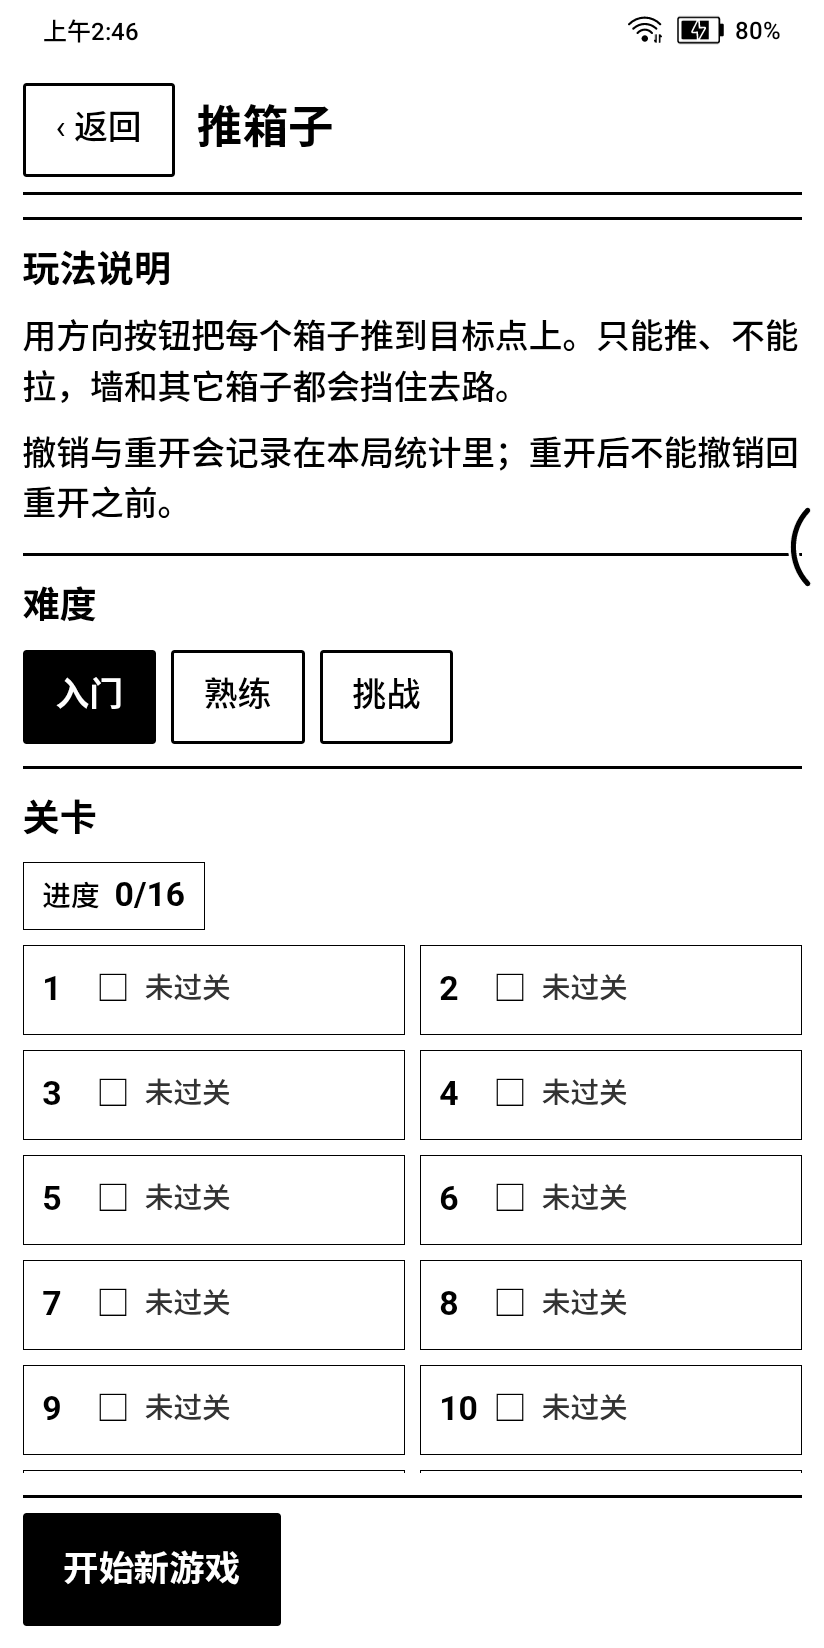
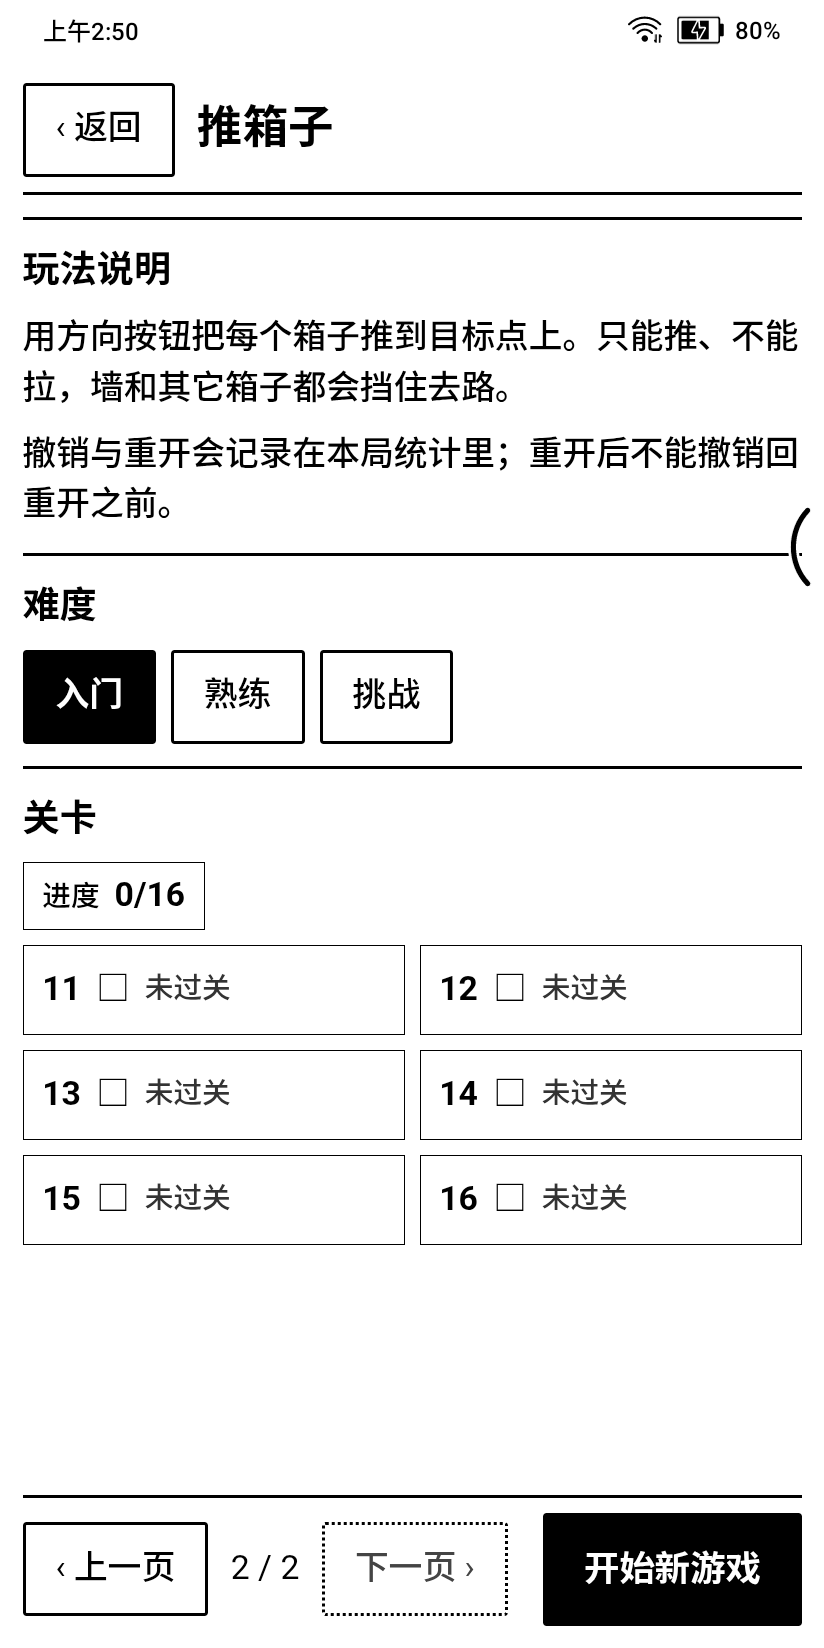
feat(ui): 关卡列表按实测容量决定是否分页；翻页按钮固定在页脚无需滚动
用户要求
1. 判断关卡能否显示全，能显示全就不用分页；
2. 且翻页按钮必须不用滑动就能看见。

改动
- 去掉写死的 LEVELS_PER_PAGE=12，改为按可用空间实测容量：
  useLayoutEffect 中测量首项高度、rowGap、gridTemplateColumns 列数，
  以「内容区底边 − 列表顶边」为可见高度，算出可放行数×列数。
  关卡数 ≤ 容量 → 全列出、不渲染分页器；否则每页=容量。
- 分页器从滚动内容区移到**固定页脚**（与主操作同一栏，宽屏同行、窄屏换行），
  因此永远不需要滚动即可看见。
- 分页器出现会让内容区变矮，content.bottom 自动上移；以 pagerNeeded 为依赖触发一次重算即收敛。
- 容量随视口/字号/粗线设置变化重算；页码越界时夹紧，避免从第 2 页切回单页后停在空页。

实测（推箱子 16 关）
- Note X2（1248×903）：本页显示 16、无分页器 ✓（末项 bottom 581 ≤ 内容区 809）
- P6Plus（439×847）：本页显示 10、有分页器；翻页按钮 bottom 830 ≤ 847，
  **无需滚动即可见** ✓；翻到第 2 页显示 11~16、页码 2/2、末项仍在内容区内 ✓

文档：docs/eink-guidelines.md 记录规则与实测数据（列数由宽度、行数由高度决定）；
截图 docs/screens/device-12-p6-detail.png、device-13-x2-detail.png

测试：169 个 TypeScript 测试 + i18n 检查全绿

diff --git a/packages/ui/src/screens/GameDetailScreen.tsx b/packages/ui/src/screens/GameDetailScreen.tsx
@@ -2,7 +2,7 @@
  * 游戏详情：玩法说明、难度、当前进度、关卡列表、开始/继续。
  * 「已有存档时开新局」必须明确询问，绝不静默丢局。
  */
-import { useState, type ReactNode } from 'react'
+import { useLayoutEffect, useRef, useState, type ReactNode } from 'react'
 import type { SaveEnvelope } from '@eink/core'
 import { computeRootLayout } from '@eink/core'
 import { ActionButton, Dialog, Pager, StatBar, TopBar } from '../components.js'
@@ -10,7 +10,8 @@ import { useUi } from '../contexts.js'
 import type { GameRegistryEntry } from '../registry.js'
 import { levelIdOf, progressOf } from './LibraryScreen.js'
 
-const LEVELS_PER_PAGE = 12
+/** 测量失败时的兜底每页数量 */
+const LEVELS_PER_PAGE_FALLBACK = 12
 
 export interface GameDetailScreenProps {
   entry: GameRegistryEntry<unknown, unknown>
@@ -40,10 +41,60 @@ export function GameDetailScreen({
   )
   const [confirmReplace, setConfirmReplace] = useState(false)
   const [page, setPage] = useState(0)
+  /**
+   * 每页关卡数：**按可用空间实测得出**，而不是写死。
+   * 装得下就全部显示、不出现分页；装不下才分页（分页器的位置也一并预留）。
+   */
+  const [perPage, setPerPage] = useState(LEVELS_PER_PAGE_FALLBACK)
+  const contentRef = useRef<HTMLDivElement | null>(null)
+  const listRef = useRef<HTMLUListElement | null>(null)
 
   const levels = entry.levels ?? []
-  const pageCount = Math.max(1, Math.ceil(levels.length / LEVELS_PER_PAGE))
-  const pageLevels = levels.slice(page * LEVELS_PER_PAGE, (page + 1) * LEVELS_PER_PAGE)
+  const [pagerNeeded, setPagerNeeded] = useState(false)
+
+  useLayoutEffect(() => {
+    const content = contentRef.current
+    const list = listRef.current
+    if (!content || !list) return
+    const firstItem = list.querySelector('li')
+    if (!firstItem) return
+
+    const itemHeight = firstItem.getBoundingClientRect().height
+    if (itemHeight <= 0) return
+    const listStyle = getComputedStyle(list)
+    const rowGap = Number.parseFloat(listStyle.rowGap || listStyle.gap || '0') || 0
+    const columns = listStyle.gridTemplateColumns.split(/\s+/).filter(Boolean).length || 1
+
+    // 可见高度 = 内容区底边 - 列表顶边（内容区是滚动容器，底边固定）
+    const available = content.getBoundingClientRect().bottom - list.getBoundingClientRect().top
+    const rowPitch = itemHeight + rowGap
+    const rowsWithoutPager = Math.max(0, Math.floor((available + rowGap) / rowPitch))
+    const capacityWithoutPager = rowsWithoutPager * columns
+
+    if (levels.length <= capacityWithoutPager) {
+      // 一屏能装下：全列出来，不显示分页
+      setPerPage(Math.max(1, levels.length))
+      setPagerNeeded(false)
+      return
+    }
+    // 装不下：分页。分页器在固定页脚里（不在滚动区），
+    // 它出现后内容区会变矮，content.bottom 自动上移，于是这里再算一次即可收敛。
+    const rowsWithPager = Math.max(1, Math.floor((available + rowGap) / rowPitch))
+    setPerPage(Math.max(columns, rowsWithPager * columns))
+    setPagerNeeded(true)
+  }, [
+    levels.length,
+    pagerNeeded,
+    viewport.width,
+    viewport.height,
+    settings.fontScale,
+    settings.boldLines,
+  ])
+
+  const pageCount = Math.max(1, Math.ceil(levels.length / perPage))
+  // 容量变化后页码可能越界，这里夹紧（例如从第 2 页切回单页）
+  const safePage = Math.min(page, pageCount - 1)
+  const pageLevels = levels.slice(safePage * perPage, (safePage + 1) * perPage)
   const summary = entry.progressFor(progress.completed)
   const currentLevelId = levelIdOf(envelope)
 
@@ -57,7 +108,7 @@ export function GameDetailScreen({
       <TopBar title={i18n.t(`${entry.game.i18nNamespace}.title`)} onBack={onBack} />
 
       {/* 主操作固定在页脚（永远在首屏内），说明与关卡选择放在这个可滚动区里 */}
-      <div className="eink-screen__content">
+      <div className="eink-screen__content" ref={contentRef}>
         {corrupt ? (
         <section className="eink-section eink-section--warning" role="alert">
           <h2>{i18n.t('shell.storage.reason.corrupt')}</h2>
@@ -102,9 +153,9 @@ export function GameDetailScreen({
           <p className="eink-muted">{i18n.t('shell.detail.none')}</p>
         ) : (
           <>
-            <ul className="eink-levels">
+            <ul className="eink-levels" ref={listRef}>
               {pageLevels.map((level, offset) => {
-                const index = page * LEVELS_PER_PAGE + offset
+                const index = safePage * perPage + offset
                 const done = progress.completed.includes(level.id)
                 const isCurrent = level.id === currentLevelId
                 const best = progress.bestMoves[level.id]
@@ -131,21 +182,26 @@ export function GameDetailScreen({
                 )
               })}
             </ul>
-            {pageCount > 1 ? (
-              <Pager
-                page={page}
-                pageCount={pageCount}
-                onPrev={() => setPage((value) => Math.max(0, value - 1))}
-                onNext={() => setPage((value) => Math.min(pageCount - 1, value + 1))}
-              />
-            ) : null}
           </>
         )}
       </section>
 
       </div>
 
-      <footer className="eink-footer" style={{ minHeight: layout.buttonHeight + 16 }}>
+      <footer
+        className="eink-footer eink-footer--split"
+        style={{ minHeight: layout.buttonHeight + 16 }}
+      >
+        {/* 翻页按钮固定在页脚，不需要滚动就能看见（窄屏会自动换行到第二行） */}
+        {pageCount > 1 ? (
+          <Pager
+            page={safePage}
+            pageCount={pageCount}
+            onPrev={() => setPage((value) => Math.max(0, value - 1))}
+            onNext={() => setPage((value) => Math.min(pageCount - 1, value + 1))}
+          />
+        ) : null}
+        <div className="eink-footer__actions">
         {hasSave ? (
           <ActionButton labelKey="shell.detail.resume" emphasis="primary" size="large" onSelect={onResume} />
         ) : null}
@@ -155,6 +211,7 @@ export function GameDetailScreen({
           size="large"
           onSelect={() => (hasSave ? setConfirmReplace(true) : start())}
         />
+        </div>
       </footer>
 
       {confirmReplace ? (

diff --git a/packages/ui/src/styles.css b/packages/ui/src/styles.css
@@ -421,6 +421,19 @@ html[data-bold-lines='on'] .eink-board__cell {
   color: #333;
 }
 
+/* 页脚里放「翻页 + 主操作」：宽屏同行、窄屏自动换行，保证翻页按钮永远无需滚动 */
+.eink-footer--split {
+  justify-content: space-between;
+  row-gap: var(--gap);
+}
+
+.eink-footer__actions {
+  display: flex;
+  flex-wrap: wrap;
+  gap: var(--gap);
+  align-items: center;
+}
+
 .eink-pager {
   display: flex;
   gap: var(--gap);

diff --git a/docs/eink-guidelines.md b/docs/eink-guidelines.md
@@ -72,3 +72,27 @@
 「是否有按钮 bottom > innerHeight」，两台设备都应为 0。
 当前结果：Note X2 六页全为 0；P6Plus 首页/设置/帮助/诊断/测试页为 0，
 详情页仅剩关卡选择等**滚动区内的次级控件**（主操作已固定）。
+
+### 关卡列表：按实测容量决定是否分页
+
+**规则**：装得下就全部列出、**不显示分页**；装不下才分页，且**翻页按钮固定在页脚**、
+无需滚动即可看见。
+
+实现（`GameDetailScreen`）：
+
+- `useLayoutEffect` 里实测三个几何量：列表首项高度、`rowGap`、`gridTemplateColumns` 的列数，
+  再用「内容区底边 − 列表顶边」得到可见高度 → 算出能放几行 × 几列 = 容量。
+- `关卡数 ≤ 容量` → 每页 = 全部、`pagerNeeded=false`（不渲染分页器）。
+- 否则 → 每页 = 容量，并把分页器渲染在**固定页脚**里（与主操作同一栏，窄屏自动换行）。
+- 分页器出现后内容区变矮，`content.bottom` 自动上移 → 依赖 `pagerNeeded` 触发一次重算即收敛。
+- 容量随视口/字号/粗线设置变化重算；页码越界时夹紧（从第 2 页切回单页不会卡在空页）。
+
+实测（16 关）：
+
+| 设备 | 视口 | 本页显示 | 分页器 | 翻页按钮 |
+|---|---|---|---|---|
+| Note X2 | 1248×903 | **16（全部）** | 无 ✓ | — |
+| P6Plus | 439×847 | 10 | 有 | bottom 830 ≤ 847，**无需滚动可见** ✓ |
+
+规律：**列数由宽度决定、行数由高度决定**，所以横屏大屏一屏放得下 16 关就不分页，
+窄屏竖屏放不下才分页 —— 同一份代码自适应，不写死每页数量。
